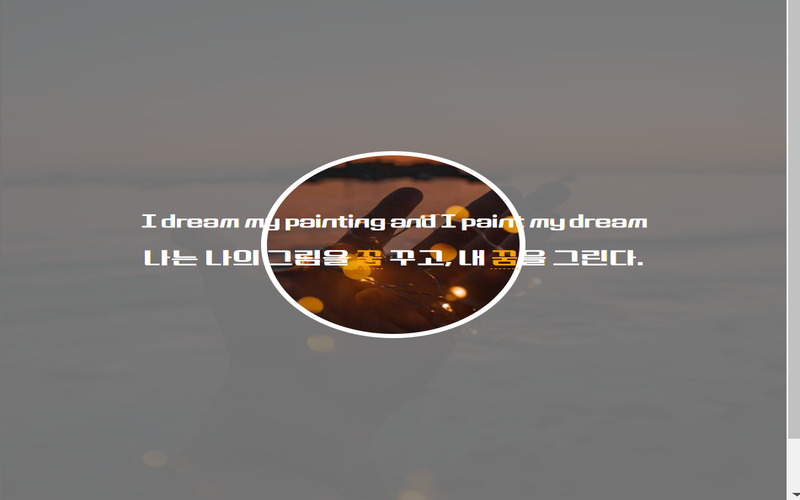
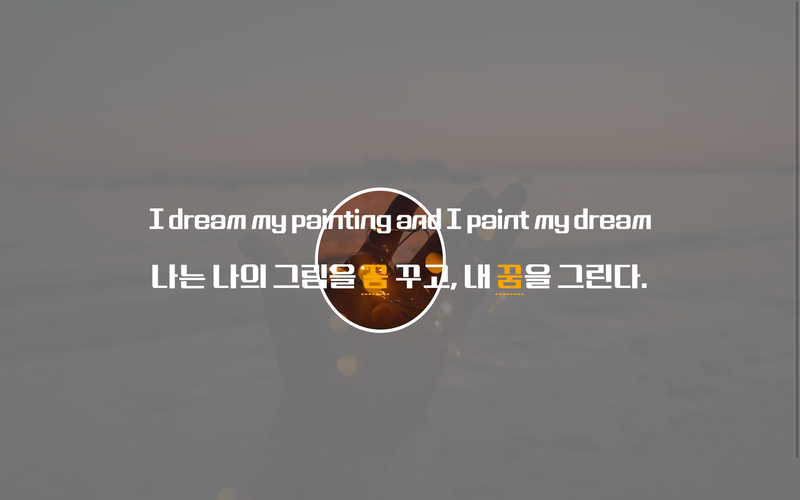
🥲  스토리 추가 및 skill영역 body-bg변경

Changed region(s): [[0.1562, 0.3, 0.8125, 0.69], [0.9688, 0.0, 1.0, 1.0]]

diff --git a/src/index.html b/src/index.html
@@ -92,6 +92,81 @@
 
       <section id="skill">
         <div class="skill__inner">
+          <h2 class="skill__title">About Me <em>많이 듣는 말.</em></h2>
+          <div class="skill__desc">
+            <div>
+              <span>1.</span>
+              <h3>Q. 20대 때 무엇을 했는가?</h3>
+              <p style="margin-bottom: 0">
+                "<span class="strongText">20</span>대 때는 많은 좌절의 실패를
+                느끼며, 제 자신을 깊숙히 이해하고, 생각하는 시간들의
+                과정이였습니다."
+              </p>
+              <div style="width: 100%; height: 100%; text-align: center">
+                <img
+                  src="assets/img/taxi-waiting.gif"
+                  alt=""
+                  style="width: 30rem"
+                />
+              </div>
+              <p style="text-align: justify">
+                "사람들의 삶은 각자의 특별한 속도와 독특한 방식으로 펼쳐집니다.
+                대학을 졸업하고 직장 생활을 시작하는 것이 보편적이긴 하지만,
+                이러한 경로가 모든 사람에게 부합하지는 않았습니다. 주변의 기대나
+                사회적인 표준은 각자의 개별적인 경험과 상황에 맞지 않을 수도
+                있습니다. 주변 환경이나 사회적인 기대에 휘둘리지 않고, 오로지
+                자신만의 독특한 경험과 가치관을 토대로 미래를 선택하는 것은
+                무엇보다 중요합니다. 지난 시간 동안 저는 자신의 길을 찾아가며
+                겪을 수 있는 불안한 순간들을 극복하며 성장하고 배웠습니다.
+                이것이 바로 제 인생을 풍요롭게 만드는 과정이라고 믿습니다."
+              </p>
+            </div>
+            <div>
+              <span>2.</span>
+              <h3>Q. 늦었다고 생각하지 않는가?</h3>
+              <div style="width: 100%; height: 100%; text-align: center">
+                <img
+                  src="assets/img/teaching.gif"
+                  alt=""
+                  style="width: 20rem"
+                />
+              </div>
+              <p style="text-align: justify">
+                "맞습니다, 저는 다른 사람들보다 조금 더 늦게 시작했지만, 그
+                덕분에 더 다양한 경험과 성장을 얻을 기회가 있었습니다. 제 과거의
+                여정은 제 개인적인 성장과 발전을 위한 소중한 시간이었고, 이제는
+                그 경험을 바탕으로 더 강하게 나아가고자 합니다. 제가 선택한 길은
+                저만의 독특한 경험과 가치를 가득 담아 미래를 향해 나아가는
+                것이기에, 시간의 차이보다는 어떤 길을 걸어가느냐가 더 중요하다고
+                믿습니다. 늦게 시작한 것이 아니라, 적절한 시간에 시작한 것이라고
+                자부심을 가지고 있습니다."
+              </p>
+            </div>
+            <div>
+              <span>3.</span>
+              <h3>Q. 그 동안의 경험들이 당신의 현재를 彩(색칠)하고 있나요?</h3>
+              <div style="width: 100%; height: 100%; text-align: center">
+                <img src="assets/img/cow.gif" alt="" style="width: 20rem" />
+              </div>
+              <p style="text-align: justify">
+                "지나온 20대 동안 겪은 좌절과 성장의 시간은 지금의 저를 더욱
+                빛나게 만들어 주고 있습니다. 이러한 경험들은 저의 내면을 깊게
+                이해하게 해 주었고, 힘들었던 순간들이 미래의 도전에 대한 강력한
+                자원으로 작용하고 있습니다. 나 자신과의 소통과 균형을 찾는
+                과정은 현재의 결단력과 자신감을 높여주었습니다. 또한, 주변의
+                기대나 일상적인 기준에 구애받지 않고 나만의 길을 찾아 나아가는
+                용기와 확신을 가지게 되었습니다. 내 과거의 선택과 여정은 지금의
+                저를 돋보이게 만들고, 앞으로 나아갈 길에 자신감을 심어주고
+                있습니다."
+              </p>
+            </div>
+          </div>
+        </div>
+      </section>
+      <!-- skill -->
+
+      <section id="skill">
+        <div class="skill__inner">
           <h2 class="skill__title">About Me <em>나의 도전</em></h2>
           <div class="skill__desc">
             <div>
@@ -192,7 +267,7 @@
                       ></path>
                       <path
                         d="M117.5 6.32843L276.5 4.32843L272.5 76.8284L126 78.8284L117.5 6.32843Z"
-                        fill="#EEEAE4"
+                        fill="#ffdf74"
                       ></path>
                       <path
                         d="M126 92.3284L125.505 92.3964L125.565 92.8359L126.008 92.8284L126 92.3284ZM274 89.8284L274.008 90.3284L274.473 90.3205L274.499 89.8571L274 89.8284ZM117.5 6.32843L117.494 5.82847L116.939 5.83545L117.003 6.38665L117.5 6.32843ZM276.5 4.32843L276.999 4.35597L277.029 3.82174L276.494 3.82847L276.5 4.32843ZM272.5 76.8284L272.507 77.3284L272.974 77.322L272.999 76.856L272.5 76.8284ZM126 78.8284L125.503 78.8867L125.556 79.3345L126.007 79.3284L126 78.8284ZM126.495 92.2605C124.495 77.6781 121.546 55.7049 119.196 37.178C118.021 27.9142 116.997 19.5143 116.316 13.3315C115.975 10.2394 115.721 7.70597 115.577 5.89755C115.505 4.9924 115.461 4.27541 115.448 3.76332C115.441 3.50638 115.442 3.30957 115.449 3.17012C115.453 3.10011 115.458 3.05262 115.463 3.02336C115.469 2.98364 115.47 3.00652 115.447 3.05203L114.553 2.60482C114.505 2.70033 114.485 2.80111 114.475 2.86652C114.463 2.9424 114.455 3.02727 114.451 3.11621C114.441 3.29465 114.441 3.52201 114.448 3.79027C114.462 4.32855 114.508 5.06595 114.58 5.97688C114.726 7.80063 114.981 10.3461 115.322 13.441C116.003 19.6321 117.029 28.0385 118.204 37.3038C120.554 55.8353 123.505 77.8121 125.505 92.3964L126.495 92.2605ZM115.447 3.05203C115.415 3.11702 115.375 3.15783 115.352 3.17834C115.328 3.19963 115.309 3.21115 115.302 3.21509C115.289 3.22221 115.292 3.21877 115.323 3.20843C115.382 3.18831 115.486 3.16216 115.645 3.13255C115.957 3.0741 116.421 3.0135 117.034 2.9519C118.257 2.82906 120.029 2.7065 122.277 2.58552C126.771 2.34367 133.141 2.10944 140.764 1.89072C156.011 1.45333 176.258 1.07837 196.506 0.828389C216.755 0.578408 237.002 0.453438 252.248 0.515923C259.872 0.547168 266.242 0.625275 270.735 0.757897C272.983 0.824242 274.755 0.904055 275.977 0.99786C276.59 1.0449 277.054 1.09465 277.366 1.14592C277.525 1.17191 277.628 1.19568 277.686 1.21425C277.716 1.22381 277.718 1.22683 277.704 1.21914C277.697 1.21491 277.676 1.20304 277.651 1.1811C277.627 1.15981 277.586 1.1182 277.553 1.05203L278.447 0.60482C278.371 0.45233 278.245 0.375572 278.191 0.345425C278.122 0.30746 278.05 0.280686 277.988 0.260937C277.862 0.220878 277.704 0.187945 277.528 0.159124C277.173 0.100781 276.675 0.0484737 276.054 0.000791378C274.807 -0.0948569 273.017 -0.175201 270.765 -0.241668C266.258 -0.37467 259.878 -0.452814 252.252 -0.484069C236.998 -0.546584 216.745 -0.421554 196.494 -0.171535C176.242 0.0784843 155.989 0.453527 140.736 0.891133C133.109 1.10992 126.729 1.34443 122.223 1.58696C119.971 1.70817 118.181 1.8317 116.934 1.95691C116.313 2.01933 115.816 2.08324 115.461 2.14955C115.285 2.18232 115.128 2.21861 115.003 2.26096C114.941 2.28185 114.87 2.30965 114.803 2.34802C114.751 2.37829 114.628 2.45513 114.553 2.60482L115.447 3.05203ZM277.553 1.05203C277.535 1.01623 277.536 1.00231 277.545 1.04383C277.551 1.07626 277.559 1.12615 277.567 1.19709C277.582 1.33849 277.596 1.53634 277.606 1.79269C277.626 2.30388 277.632 3.01842 277.626 3.91914C277.614 5.71897 277.551 8.23943 277.447 11.3147C277.24 17.4641 276.871 25.8174 276.426 35.0293C275.534 53.4522 274.334 75.3006 273.501 89.7997L274.499 89.8571C275.333 75.3563 276.533 53.5046 277.424 35.0776C277.87 25.8644 278.239 17.5053 278.447 11.3484C278.55 8.27055 278.614 5.73944 278.626 3.92599C278.632 3.02008 278.626 2.28754 278.605 1.75333C278.594 1.48697 278.58 1.26253 278.561 1.08732C278.551 0.999946 278.539 0.917947 278.525 0.845573C278.512 0.782281 278.49 0.690628 278.447 0.60482L277.553 1.05203ZM273.992 89.3285L125.992 91.8285L126.008 92.8284L274.008 90.3284L273.992 89.3285ZM117.506 6.82839L276.506 4.82839L276.494 3.82847L117.494 5.82847L117.506 6.82839ZM276.001 4.30089L272.001 76.8009L272.999 76.856L276.999 4.35597L276.001 4.30089ZM272.493 76.3285L125.993 78.3285L126.007 79.3284L272.507 77.3284L272.493 76.3285ZM126.497 78.7702L117.997 6.27021L117.003 6.38665L125.503 78.8867L126.497 78.7702Z"
@@ -357,7 +432,7 @@
                     <path
                       id="pencilCase"
                       d="M286.038 88.8284C286.038 88.8284 287.038 107.828 288.538 111.828C290.038 115.828 292.538 116.828 298.538 116.828C303.338 116.828 305.871 112.828 306.538 110.828C307.371 104.328 309.038 90.8284 309.038 88.8284C307.838 93.2284 300.871 94.6618 297.538 94.8284C289.538 95.2284 286.538 90.9951 286.038 88.8284Z"
-                      fill="#EEEAE4"
+                      fill="#ffdf74"
                       stroke="black"
                     ></path>
                   </g>
@@ -383,7 +458,7 @@
                     <g id="stay">
                       <path
                         d="M34.1246 109.5C34.1246 109.5 28.1289 110.5 27.6289 119C27.1289 127.5 40.129 134.5 54.629 134.5C69.129 134.5 77.129 129 77.129 122C77.129 115 70.129 108.5 62.629 107.5C53.429 105.1 34.1246 109.5 34.1246 109.5Z"
-                        fill="#222222"
+                        fill="#ffdf74"
                       ></path>
                       <path
                         d="M38.6359 58.5L30.6359 44.5M36.1359 42C27.1359 45.8333 9.50067 56.5615 6.62405 73C3.1242 93 14.6241 107.5 34.1246 109.5M34.1246 109.5C34.1246 109.5 28.1289 110.5 27.6289 119C27.1289 127.5 40.129 134.5 54.629 134.5C69.129 134.5 77.129 129 77.129 122C77.129 115 70.129 108.5 62.629 107.5C53.429 105.1 34.1246 109.5 34.1246 109.5Z"
@@ -396,19 +471,19 @@
                         fill-rule="evenodd"
                         clip-rule="evenodd"
                         d="M37.4272 50.9024C28.4272 53.069 11.1272 62.5024 13.9272 82.9024C15.8008 96.5527 25.3904 104.696 34.4272 109.039C35.0939 107.16 35.8272 103.102 33.4272 101.902C30.4272 100.402 25.4272 100.902 24.9272 97.9024C24.4272 94.9024 30.4272 91.4024 29.4272 89.9024C28.4272 88.4024 19.4272 86.4024 19.9272 82.9024C20.4272 79.4024 24.4272 71.4024 29.4272 71.4024C34.4272 71.4024 34.4272 74.9024 38.9272 74.9024C43.4272 74.9024 49.9272 69.9024 50.9272 71.9024C51.9272 73.9024 55.4272 80.4024 50.9272 84.9024C46.4272 89.4024 39.9272 88.9024 39.9272 91.4024C39.9272 93.9024 51.9272 94.9024 50.9272 97.9024C49.9272 100.902 50.4272 107.667 42.4272 112.035C43.8838 112.432 45.2345 112.717 46.4272 112.902C54.4272 113.569 72.0272 111.002 78.4272 95.4024C78.9487 94.1313 79.3958 92.7922 79.7651 91.4024C76.103 91.9024 72.9272 93.9024 69.4272 89.9024C64.4272 81.9024 72.9272 74.4024 71.9272 71.9024C70.9272 69.4024 66.4272 74.9024 62.9272 73.4024C59.4272 71.9024 63.4272 70.9024 61.4272 67.4024C59.4272 63.9024 57.4272 70.4024 51.4272 63.9024C46.6272 58.7024 55.4272 52.6706 60.4272 50.3047C54.3028 48.5074 46.6898 48.4401 37.4272 50.9024ZM60.4272 99.9024C61.6272 100.302 63.2606 99.7357 63.9272 99.4024C65.9272 100.902 65.4272 101.402 66.4272 102.402C67.4272 103.402 71.4272 101.902 69.4272 97.9024C67.4272 93.9024 61.9272 94.9024 59.9272 95.4024C57.9272 95.9024 58.9272 99.4024 60.4272 99.9024Z"
-                        fill="#EEEAE4"
+                        fill="#ffdf74"
                       ></path>
                       <path
                         d="M33.4272 101.902C35.8272 103.102 35.0939 107.16 34.4272 109.039C37.2292 110.386 39.9781 111.368 42.4272 112.035C50.4272 107.667 49.9272 100.902 50.9272 97.9024C51.9272 94.9024 39.9272 93.9024 39.9272 91.4024C39.9272 88.9024 46.4272 89.4024 50.9272 84.9024C55.4272 80.4024 51.9272 73.9024 50.9272 71.9024C49.9272 69.9024 43.4272 74.9024 38.9272 74.9024C34.4272 74.9024 34.4272 71.4024 29.4272 71.4024C24.4272 71.4024 20.4272 79.4024 19.9272 82.9024C19.4272 86.4024 28.4272 88.4024 29.4272 89.9024C30.4272 91.4024 24.4272 94.9024 24.9272 97.9024C25.4272 100.902 30.4272 100.402 33.4272 101.902Z"
-                        fill="#EEEAE4"
+                        fill="#222222"
                       ></path>
                       <path
                         d="M60.4272 50.3047C55.4272 52.6706 46.6272 58.7024 51.4272 63.9024C57.4272 70.4024 59.4272 63.9024 61.4272 67.4024C63.4272 70.9024 59.4272 71.9024 62.9272 73.4024C66.4272 74.9024 70.9272 69.4024 71.9272 71.9024C72.9272 74.4024 64.4272 81.9024 69.4272 89.9024C72.9272 93.9024 76.103 91.9024 79.7651 91.4024C83.7328 76.4698 78.7179 55.6722 60.4272 50.3047Z"
-                        fill="#EEEAE4"
+                        fill="#222222"
                       ></path>
                       <path
                         d="M63.9272 99.4024C63.2606 99.7357 61.6272 100.302 60.4272 99.9024C58.9272 99.4024 57.9272 95.9024 59.9272 95.4024C61.9272 94.9024 67.4272 93.9024 69.4272 97.9024C71.4272 101.902 67.4272 103.402 66.4272 102.402C65.4272 101.402 65.9272 100.902 63.9272 99.4024Z"
-                        fill="#EEEAE4"
+                        fill="#222222"
                       ></path>
                       <path
                         d="M34.4272 109.039C25.3904 104.696 15.8008 96.5527 13.9272 82.9024C11.1272 62.5024 28.4272 53.069 37.4272 50.9024C46.6898 48.4401 54.3028 48.5074 60.4272 50.3047M34.4272 109.039C35.0939 107.16 35.8272 103.102 33.4272 101.902C30.4272 100.402 25.4272 100.902 24.9272 97.9024C24.4272 94.9024 30.4272 91.4024 29.4272 89.9024C28.4272 88.4024 19.4272 86.4024 19.9272 82.9024C20.4272 79.4024 24.4272 71.4024 29.4272 71.4024C34.4272 71.4024 34.4272 74.9024 38.9272 74.9024C43.4272 74.9024 49.9272 69.9024 50.9272 71.9024C51.9272 73.9024 55.4272 80.4024 50.9272 84.9024C46.4272 89.4024 39.9272 88.9024 39.9272 91.4024C39.9272 93.9024 51.9272 94.9024 50.9272 97.9024C49.9272 100.902 50.4272 107.667 42.4272 112.035M34.4272 109.039C37.2292 110.386 39.9781 111.368 42.4272 112.035M42.4272 112.035C43.8838 112.432 45.2345 112.717 46.4272 112.902C54.4272 113.569 72.0272 111.002 78.4272 95.4024C78.9487 94.1313 79.3958 92.7922 79.7651 91.4024M60.4272 50.3047C55.4272 52.6706 46.6272 58.7024 51.4272 63.9024C57.4272 70.4024 59.4272 63.9024 61.4272 67.4024C63.4272 70.9024 59.4272 71.9024 62.9272 73.4024C66.4272 74.9024 70.9272 69.4024 71.9272 71.9024C72.9272 74.4024 64.4272 81.9024 69.4272 89.9024C72.9272 93.9024 76.103 91.9024 79.7651 91.4024M60.4272 50.3047C78.7179 55.6722 83.7328 76.4698 79.7651 91.4024M63.9272 99.4024C63.2606 99.7357 61.6272 100.302 60.4272 99.9024C58.9272 99.4024 57.9272 95.9024 59.9272 95.4024C61.9272 94.9024 67.4272 93.9024 69.4272 97.9024C71.4272 101.902 67.4272 103.402 66.4272 102.402C65.4272 101.402 65.9272 100.902 63.9272 99.4024Z"
@@ -450,46 +525,20 @@
           <div class="site__wrap">
             <article class="site__item s1">
               <span class="num">1.</span>
-              <div class="site__grid__container">
-                <img
-                  src="./assets/img/img01.png"
-                  alt="img"
-                  class="image image1"
-                />
-                <img
-                  src="./assets/img/img02.png"
-                  alt="img"
-                  class="image image2"
-                />
-                <img
-                  src="./assets/img/img03.png"
-                  alt="img"
-                  class="image image3"
-                />
-                <img
-                  src="./assets/img/img04.png"
-                  alt="img"
-                  class="image image4"
-                />
+              <div class="text">
+                <div>Make</div>
+                <div>site compliant with</div>
+                <div>webstandard</div>
               </div>
-              <div class="site__text__container">
-                <div class="text">
-                  <div>Make</div>
-                  <div>site compliant with</div>
-                  <div>React</div>
-                </div>
-                <h3 class="title">웹 표준을 준수한 사이트 제작</h3>
-                <div class="btn">
-                  <a href="https://github.com/webstoryboy/port2023-vite"
-                    >code</a
-                  >
-                  <a href="https://port2023-vite.netlify.app/">view</a>
-                </div>
-                <div class="info">
-                  <span>site coding</span>
-                  <span>production period : two days</span>
-                  <span>use stack : html5/css3, CSS Variable, Vite</span>
-                </div>
+              <h3 class="title">웹 표준을 준수한 사이트 제작</h3>
+              <div class="btn">
+                <a href="https://github.com/webstoryboy/port2023-vite">code</a>
+                <a href="https://port2023-vite.netlify.app/">view</a>
+              </div>
+              <div class="info">
+                <span>site coding</span>
+                <span>production period : two days</span>
+                <span>use stack : html5/css3, CSS Variable, Vite</span>
               </div>
             </article>
             <article class="site__item s2">

diff --git a/src/assets/css/section/site.css b/src/assets/css/section/site.css
@@ -26,42 +26,9 @@
   display: flex;
   align-items: center;
   justify-content: center;
-  /* flex-direction: column; */
+  flex-direction: column;
   position: sticky;
   left: 0;
-  padding: 1.5rem;
-}
-
-.site__grid__container {
-  display: grid;
-  grid-template-columns: repeat(3, 1fr);
-  grid-auto-rows: 8.5rem;
-  grid-gap: 0.3rem;
-  grid-template-areas:
-    'b b d'
-    'a a c'
-    'a a c';
-  width: 55%;
-  box-shadow: rgba(0, 0, 0, 0.4) 0px 30px 90px;
-}
-
-.site__grid__container .image {
-  width: 100%;
-  height: 100%;
-  object-fit: cover;
-}
-
-.site__grid__container .image1 {
-  grid-area: a;
-}
-.site__grid__container .image2 {
-  grid-area: b;
-}
-.site__grid__container .image3 {
-  grid-area: c;
-}
-.site__grid__container .image4 {
-  grid-area: d;
 }
 
 .site__text__container {
@@ -189,33 +156,6 @@
     width: 90%;
     margin-left: 5%;
     padding: 5px 0;
-  }
-
-  .site__item {
-    flex-direction: column;
-  }
-  .site__grid__container {
-    display: grid;
-    grid-template-columns: repeat(3, 1fr);
-    grid-auto-rows: 5rem;
-    grid-gap: 0.5rem;
-    grid-template-areas:
-      'b b d'
-      'a a c'
-      'a a c';
-    width: 80%;
-  }
-
-  .site__text__container .text {
-    display: none;
-  }
-
-  .site__text__container .title {
-    display: none;
-  }
-
-  .site__text__container {
-    padding-left: 0;
   }
 
   .site__item .btn {

diff --git a/src/assets/css/setting/vars.css b/src/assets/css/setting/vars.css
@@ -3,7 +3,13 @@
   --mainKor-font: 'nanumSquareNeo';
   --mainNum-font: 'gmarket';
 
-  --mainBg-color: #f3ede8;
+  --mainBg-color: #f7f7f7;
+  --subBg-color50: #fae496;
+  --subBg-color60: #ffdf74;
+  --subBg-color100: #fffaea;
+  --subBg-color150: #efeae4;
+  --subBg-color200: #1a1a1a;
+
   --subBg100: #cdc0b1;
   --subBg200: #afa395;
   --subBg300: #81887c;
@@ -44,5 +50,6 @@
 
 body {
   color: var(--black100);
-  background-color: var(--mainBg-color);
+  /* background-color: var(--mainBg-color); */
+  background-color: var(--subBg-color50);
 }

diff --git a/src/assets/css/section/skill.css b/src/assets/css/section/skill.css
@@ -2,6 +2,7 @@
   padding: 16px;
   display: flex;
   justify-content: space-between;
+  background-color: var(--subBg-color50);
 }
 
 .skill__title {
@@ -45,6 +46,14 @@
 .skill__desc p {
   margin-bottom: 10vh;
   font-size: 1.1rem;
+}
+
+.skill__desc p::first-letter {
+  font-size: 2.5rem;
+}
+
+.skill__desc .strongText {
+  font-size: 2.5rem;
 }
 
 @media (max-width: 800px) {
